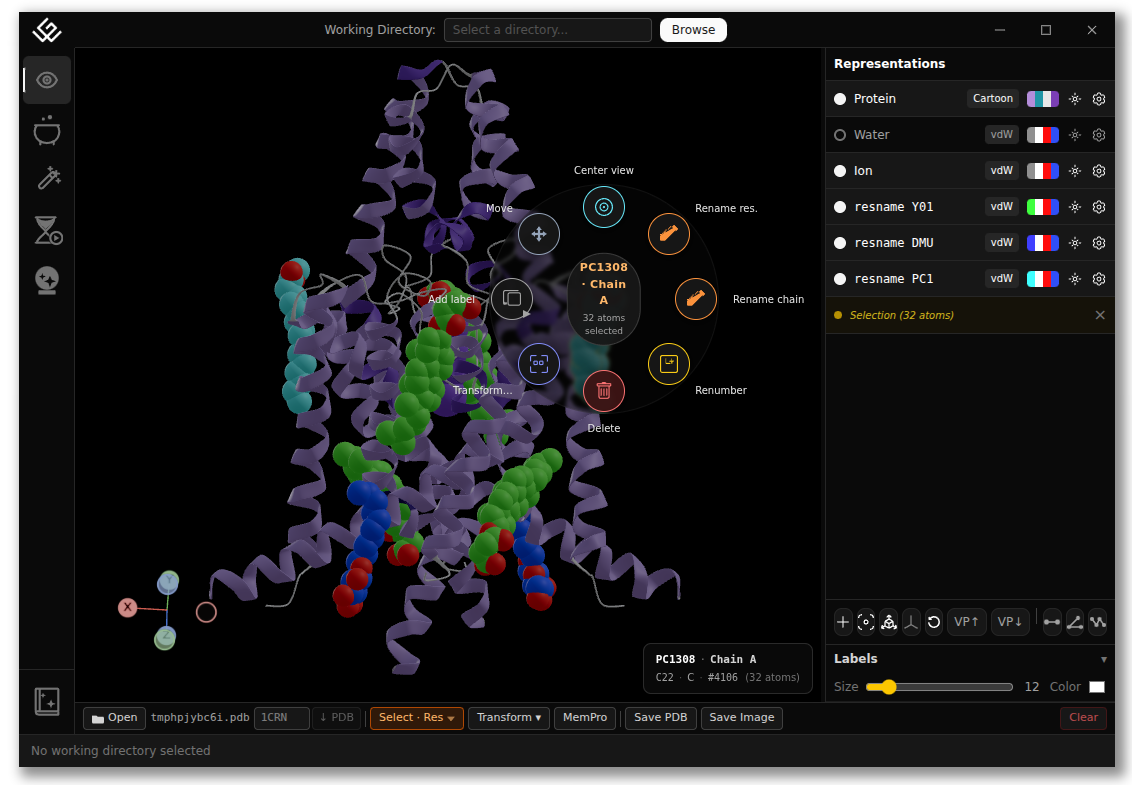
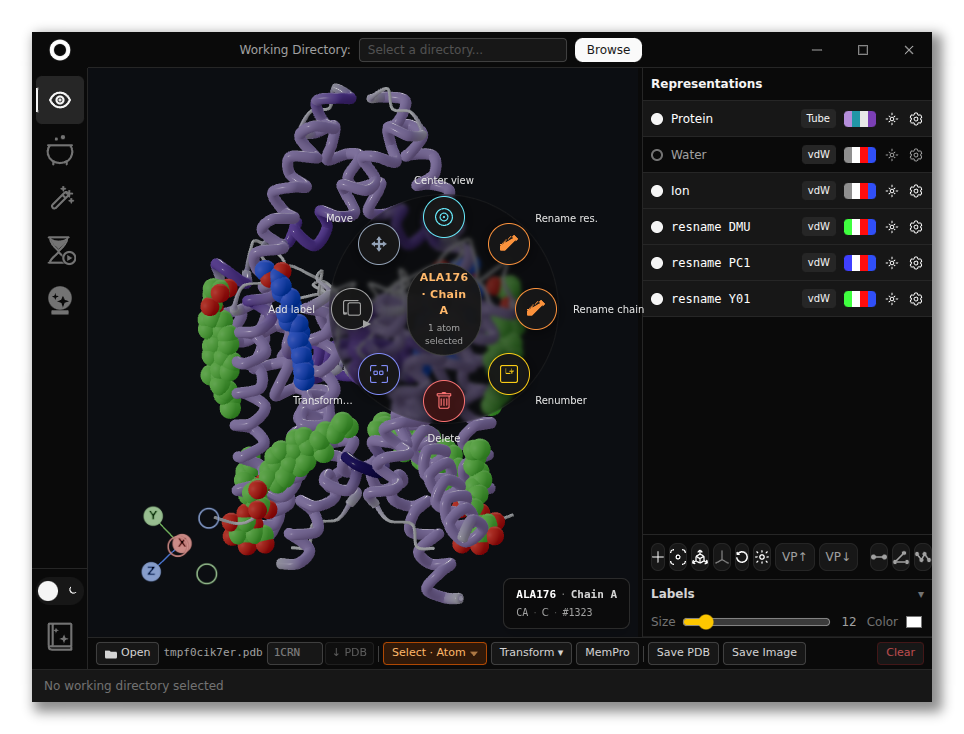
Document WSL-only install on Windows
README and issue template explain that native Windows is unsupported and WSL 24.04 is the path on Windows PCs.

diff --git a/README.md b/README.md
@@ -20,7 +20,7 @@ The app uses the **[GateWizard API](https://github.com/maurobedoya/gatewizard)**
 - **Equilibration** — CHARMM-GUI-style protocols for NAMD, GROMACS, and OpenMM (NVT, NPT, NPAT, NPγT)
 - **Analysis** — trajectory metrics, structural analysis, and plotting helpers
 - **Force fields** — Amber protein models (e.g. ff14SB, ff19SB) and common water/lipid setups
-- **Cross-platform** — Linux, Windows, and macOS installers
+- **Cross-platform** — Linux (including WSL on Windows) and macOS installers
 
 ## Install
 
@@ -29,18 +29,22 @@ Download the installer for your platform from [Releases](https://github.com/fran
 **First launch** downloads Python packages in the background (several minutes). Keep the splash screen open — progress is shown there.
 
 Install logs:
-- **Windows:** `%APPDATA%\gatewizard-gui\runtime-install.log`
 - **Linux / WSL:** `~/.config/gatewizard-gui/runtime-install.log`
 - **macOS:** `~/Library/gatewizard-gui/runtime-install.log`
 
-### Windows
+### Windows (via WSL)
 
-1. Run `gatewizard-gui-*-win-x64-setup.exe`
-2. Open **GateWizard GUI (Windows)** from the Start menu or desktop
-3. Wait on the splash screen until the main window appears (first run: 5–15 min)
-4. **Full MD workflow** (membrane builder, AmberTools): use the **Linux/WSL** build on the same PC
+Native Windows installers are **not published**. On a Windows PC, install **WSL 2** and use the **Linux** build (full MD workflow: AmberTools, membrane builder, OpenMM).
 
-### Linux / WSL
+**Supported distros (tested):**
+
+| Environment | Ubuntu / Debian | Notes |
+|-------------|-----------------|-------|
+| **WSL** | **24.04** | Recommended — WSLg, Electron, and the embedded runtime work reliably |
+| WSL | 22.04 | Not recommended — GUI/display issues (WSLg, DBus) are common; upgrade to 24.04 |
+| **Native Linux** | 22.04 or newer | Full support on a standard desktop with X11 or Wayland |
+
+On WSL, use a recent **WSL 2** install with **WSLg** enabled (`wsl --version` should list WSLg). After `wsl --update`, run `wsl --shutdown` once if the app cannot open a window.
 
 **`.deb` (Ubuntu/Debian/WSL):**
 ```bash
@@ -54,7 +58,15 @@ chmod +x gatewizard-gui-*-linux-x86_64.AppImage
 ./gatewizard-gui-*-linux-x86_64.AppImage
 ```
 
-Do **not** run `gatewizard` in the terminal — that is the Python API CLI, not this app.
+If the splash screen appears but the main window never opens on WSL, try software rendering:
+
+```bash
+GATEWIZARD_GPU_SAFE_MODE=1 gatewizard-gui-linux --ozone-platform=wayland
+```
+
+The `gatewizard` PyPI package is the **Python API library** only (no console command). This app is launched as `gatewizard-gui-linux` or `gatewizard-gui-mac`.
+
+Use the same `.deb` or AppImage steps above on **native Linux** desktops (Ubuntu 22.04+).
 
 ### macOS
 
@@ -208,7 +220,7 @@ OpenMM needs no separate binary — provided by `gatewizard[full]` + conda above
 |----------|----------------------------------------|
 | Linux / WSL | Yes |
 | macOS | Yes, where AmberTools is available |
-| Native Windows | Limited — no AmberTools in embedded runtime; OpenMM GPU not set up by the installer; use WSL for full MD |
+| Native Windows | Not supported — use WSL with the Linux build |
 
 ### Python API (optional)
 
@@ -241,11 +253,10 @@ Install `npm` dependencies in **one environment only** (WSL or Windows), not bot
 
 | Platform | Command | Release artifact (example) |
 |----------|---------|----------------------------|
-| Linux / WSL | `npm run build:linux` | `gatewizard-gui-1.0.5-linux-x86_64.AppImage`, `.deb` |
-| Windows | `npm run build` then `npm run build:win:pack` | `gatewizard-gui-1.0.5-win-x64-setup.exe` |
-| macOS | `npm run build:mac` (on macOS) | `gatewizard-gui-1.0.5-mac-arm64.dmg` |
+| Linux / WSL | `npm run build:linux` | `gatewizard-gui-1.0.6-linux-x86_64.AppImage`, `.deb` |
+| macOS | `npm run build:mac` (on macOS) | `gatewizard-gui-1.0.6-mac-arm64.dmg` |
 
-Installers use platform suffixes (`-win-`, `-linux-`, `-mac-`) so Windows and WSL/Linux builds are easy to tell apart on one machine.
+CI publishes **Linux and macOS only**. A native Windows `.exe` can be built locally (`npm run build:win:pack`) but is not shipped on GitHub Releases.
 
 ## Community and support
 
